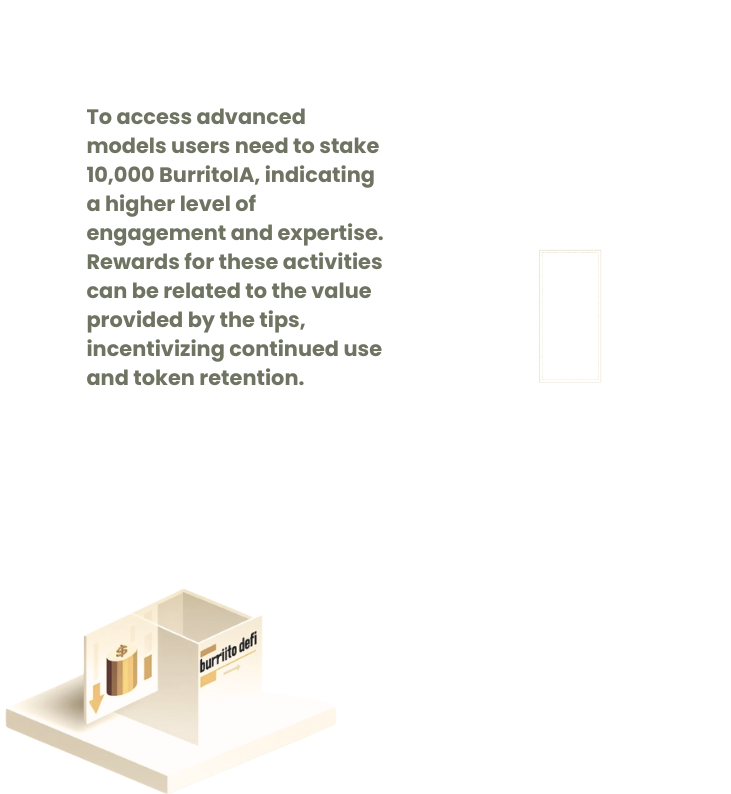
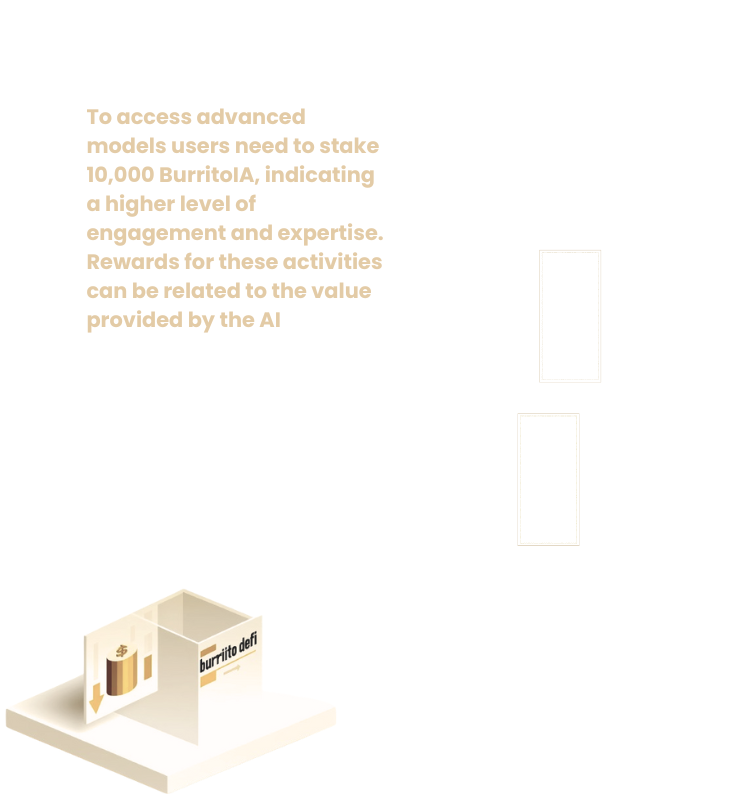
wip16

Changed region(s): [[0.1204, 0.1209, 0.5417, 0.4836]]

diff --git a/components/SubnetBlock.vue b/components/SubnetBlock.vue
@@ -6,18 +6,17 @@
 		<div class="row align-items-center flex-row-reverse">
 		  <div class="col col-12 col-sm-6">
 			<div>
-			  <img src="/crypto_gem_burritoAI.gif"/>
+			  <img src="/crypto_gem_burritoAI.gif" style="padding: 100px;"/>
 			</div>
 		  </div>
 		  <div class="col col-12 col-sm-6">
-			<div class="content text-center text-sm-start d-sm-inline-block">
+			<div class="content text-center text-sm-start d-sm-inline-block mt-8">
 			  <h2 class="title mb-3" style="color:#E3CBA6;">Multi-AI Index + Fun!</h2>
-			  <h3 class="subtitle purple mb-4"> Market for artificial intelligence, incentivized dApp in which consumers and producers offer valuable commodities
-				can interact in a trustless, open and transparent context.
-				$BurritoIA</h3>
+			  <h5 class="mb-4"> Market for artificial intelligence, incentivized dApp in which consumers and producers offer value.
+				$BurritoIA</h5>
 			  <p class="text-center mt-5">
 				<nuxt-link class="text" to="https://traderjoexyz.com/avalanche/trade" target="_blank">See
-				  <strong><u>BurritoIA</u></strong> contract on-chain
+				  <strong>burritoIA</strong> contract on-chain
 				</nuxt-link>
 			  </p>
 			</div>
@@ -33,20 +32,20 @@
 		<div class="row align-items-center mt-5">
 		  <div class="col col-12 col-sm-6">
 			<div>
-			  <img src="/ui3.png" class="mx-auto d-block" alt="Staking and Rewards"/>
+			  <img src="/giphy.gif" class="mx-auto d-block" alt="Staking and Rewards"/>
 			</div>
 		  </div>
 		  <div class="col col-12 col-sm-6">
 			<div class="content text-center text-sm-start d-sm-inline-block">
 			  <h2 class="subtitle purple mb-4">Staking Mechanisms & Rewards</h2>
 			  <p>
-				Staking Requirements: Users must stake a fixed amount of BurritoIA to access different AI embeds. This structure encourages holding and regulates the use of AI resources to prevent abuse.
+				<strong>Users must stake a fixed amount of BurritoIA to access different AI embeds. This structure encourages holding and regulates the use of AI resources.</strong>
 			  </p>
 			  <p>
-				Reward Structure: For precise answers and tutorials, for example, 1000 BurritoIA is required to access, with rewards ranging from 555 to 900 BurritoIA upon task completion, encouraging active participation and learning.
+				1000 BurritoIA is required to access, with rewards ranging from 555 to 900 BurritoIA upon task completion, encouraging active participation and learning.
 			  </p>
 			  <p>
-				Significant Contributions: For high-impact tasks like contributions to repositories, the staking requirement remains 1000 BurritoIA, but the reward significantly rises to 90,000 BurritoIA, incentivizing quality contributions and commitment to the project.
+				<strong>For high-impact tasks like contributions to repositories, the staking requirement remains 1000 BurritoIA, but the reward significantly rises to 90,000 BurritoIA, incentivizing quality contributions and commitment.</strong>
 			  </p>
 			</div>
 		  </div>
@@ -100,7 +99,6 @@
 		margin-bottom: 2rem // Espacio debajo de las imágenes para separar del texto
 	// Estilos para títulos y subtítulos para mantener coherencia visual
 	.title
-		color: #8A2BE2 // Cambia al color que prefieras
 		font-size: 2rem
 		font-weight: bold
 		margin-bottom: 1rem
@@ -113,6 +111,6 @@
 		line-height: 1.5
 	// Asegura que los enlaces dentro del componente tengan un estilo distintivo
 	.nuxt-link
-		text-decoration: underline
+		text-decoration: none
 </style>
 

diff --git a/components/LiquidPool.vue b/components/LiquidPool.vue
@@ -3,12 +3,12 @@
 		<div class="container">
 			<div class="row flex-column-reverse flex-lg-row align-items-center justify-content-center text-center">
 				<div class="col col-12 col-lg-6 text-start">
-					<h2 class="strong title purple text-center text-lg-start">
-						Empowering businesses and individuals<br class="d-none d-lg-block">
+					<h2 class="strong title text-center text-lg-start" style="color:#E3CBA6;">
+						Empowering the crypto community<br class="d-none d-lg-block">
 					</h2>
-					<h3 class="purple mb-4 subtitle text-center text-lg-start">by lowering the barriers to financial inclusion.</h3>
-					<p class="text-start">
-						<bpay-button-v2 to="/token-sale/#buy" class="mr-8" image-src="/photo_5.png" >Add Liquidity & Earn</bpay-button-v2>
+					<h3 class="purple mb-4 subtitle text-center text-lg-start">by lowering the barriers to AI powered systems.</h3>
+					<p class="text-center">
+						<bpay-button-v2 to="/token-sale/#buy" class="mr-8" image-src="/photo_5.png" >Add-Liquidity & Earn Passive Income</bpay-button-v2>
 					</p>
 				</div>
 				<div class="col col-12 col-lg-6 text-center text-lg-end">

diff --git a/components/BackgroundCards.vue b/components/BackgroundCards.vue
@@ -49,9 +49,9 @@
           <div class="col-md-6">
             <div class="card h-100">
               <div class="card-body">
-                <h5 class="card-title text-white subtitle mb-7">Resources</h5>
+                <h5 class="card-title text-white subtitle mb-7">Resources Links</h5>
                 <div class="list-unstyled">
-                  <a class="btn-list-item subtitle mt-3 mb-8" href="#" target="_blank" aria-label="Servicio 1">
+                  <a class="btn-list-item subtitle mt-3 mb-8" href="https://github.com/tinygrad/tinygrad" target="_blank" aria-label="Servicio 1">
                     <i class="bi bi-check-circle-fill"></i> TinyGrad
                   </a>
                   <a class="btn-list-item subtitle mt-3 mb-8" href="https://github.com/langchain-ai/langchain" target="_blank" aria-label="Servicio 2">

diff --git a/components/AvalancheBlock.vue b/components/AvalancheBlock.vue
@@ -6,7 +6,7 @@
 				<h2 class="purple title mb-8 text-center text-sm-start" style="color:#E3CBA6;">Democratizing IA will increase transparency and efficency</h2>
 				<div class="avalanche text-center d-flex align-items-center flex-column flex-sm-row">
 					<!-- <img class="mb-3 me-sm-5" src="/Finance-Defi-IA-crypto-website.png" alt="Avalanche"> -->
-					<p class="subtitle">Blockchain-based global and efficient crypto+IA finances,<br>
+					<p class="subtitle text-end">Blockchain-based global and efficient crypto+IA finances,
 						to accelerate prosperity and accelerate humanity.
 					</p>
 				</div>

diff --git a/components/InfoBullet.vue b/components/InfoBullet.vue
@@ -22,7 +22,7 @@ const features = [
   },
   {
     title: "Real AI with real crypto users",
-    copy: "Say goodbye to manual email, with just some $burritoAI token you are AI-powered tools that understands and responds to your real-time process with the right information at the right time."
+    copy: "Say goodbye to general weak AI, with just some $burritoAI token you can access AI-powered tools that understands and responds to your real-time processes with the right information at the right time."
   },
   {
     title: "Institutional-grade Multi-Chain liquidity",

diff --git a/components/Timeline.vue b/components/Timeline.vue
@@ -1,7 +1,7 @@
 <template>
     <section id="timeline" class="py-5">
       <div class="container">
-        <h2 class="text-center mb-5" style="color:#fcfcfc"><strong><u>How it works</u></strong></h2>
+        <h2 class="text-center mb-5" style="color:#fcfcfc"><strong><u>Roadmap 2024</u></strong></h2>
         <div class="timeline">
           <div v-for="(item, index) in years" :key="index" class="row align-items-center timeline-item">
             <!-- Year text on the left -->

diff --git a/components/CorporateBlock.vue b/components/CorporateBlock.vue
@@ -43,7 +43,7 @@
 					</div>
 				</div>
 				<div class="col-12 col-sm-6">
-					<img src="/giphy.gif" alt="">
+					<img src="/giphy.gif" style="padding: 33px;" alt="">
 					<div class="d-flex justify-content-center">
 					<bpay-button-v2
 									href="/staking-ia-crypto-finance"
